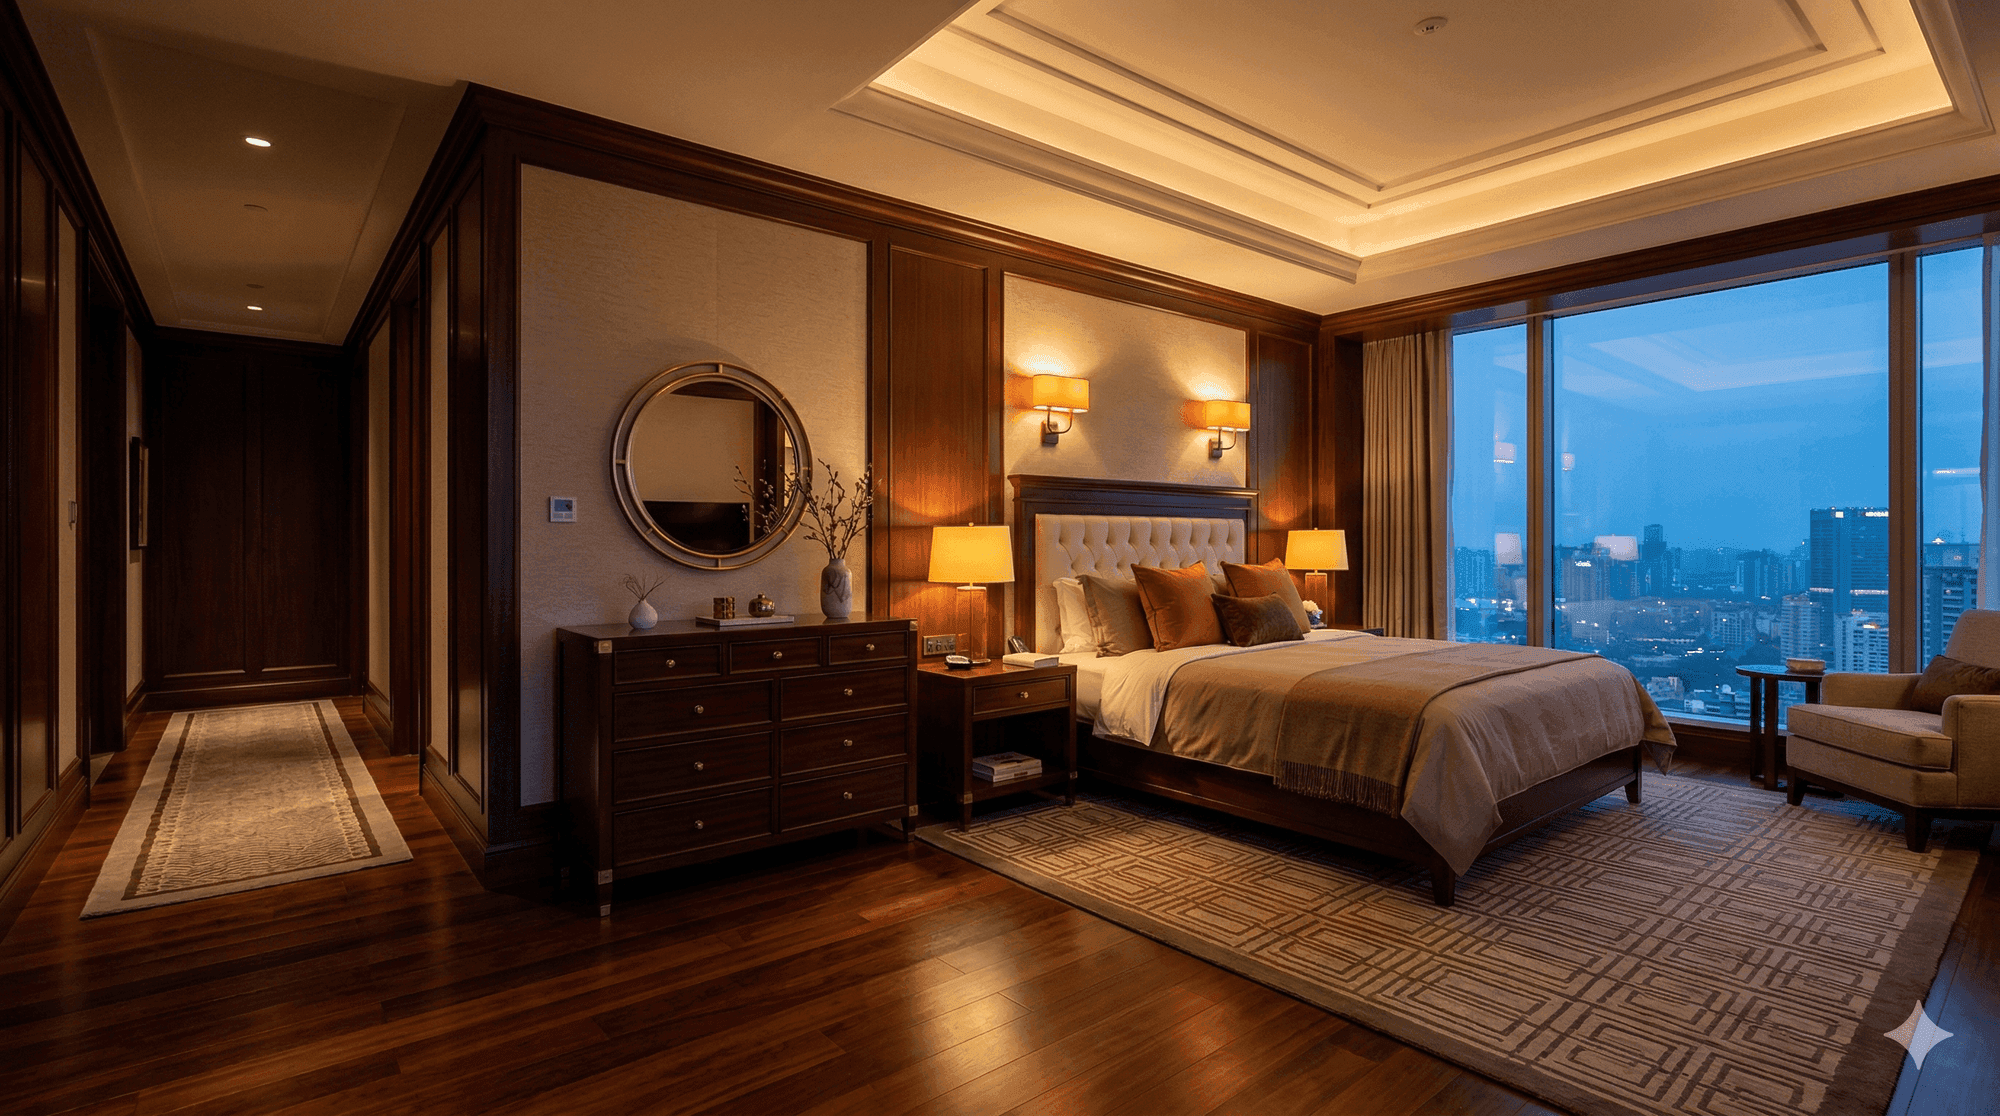
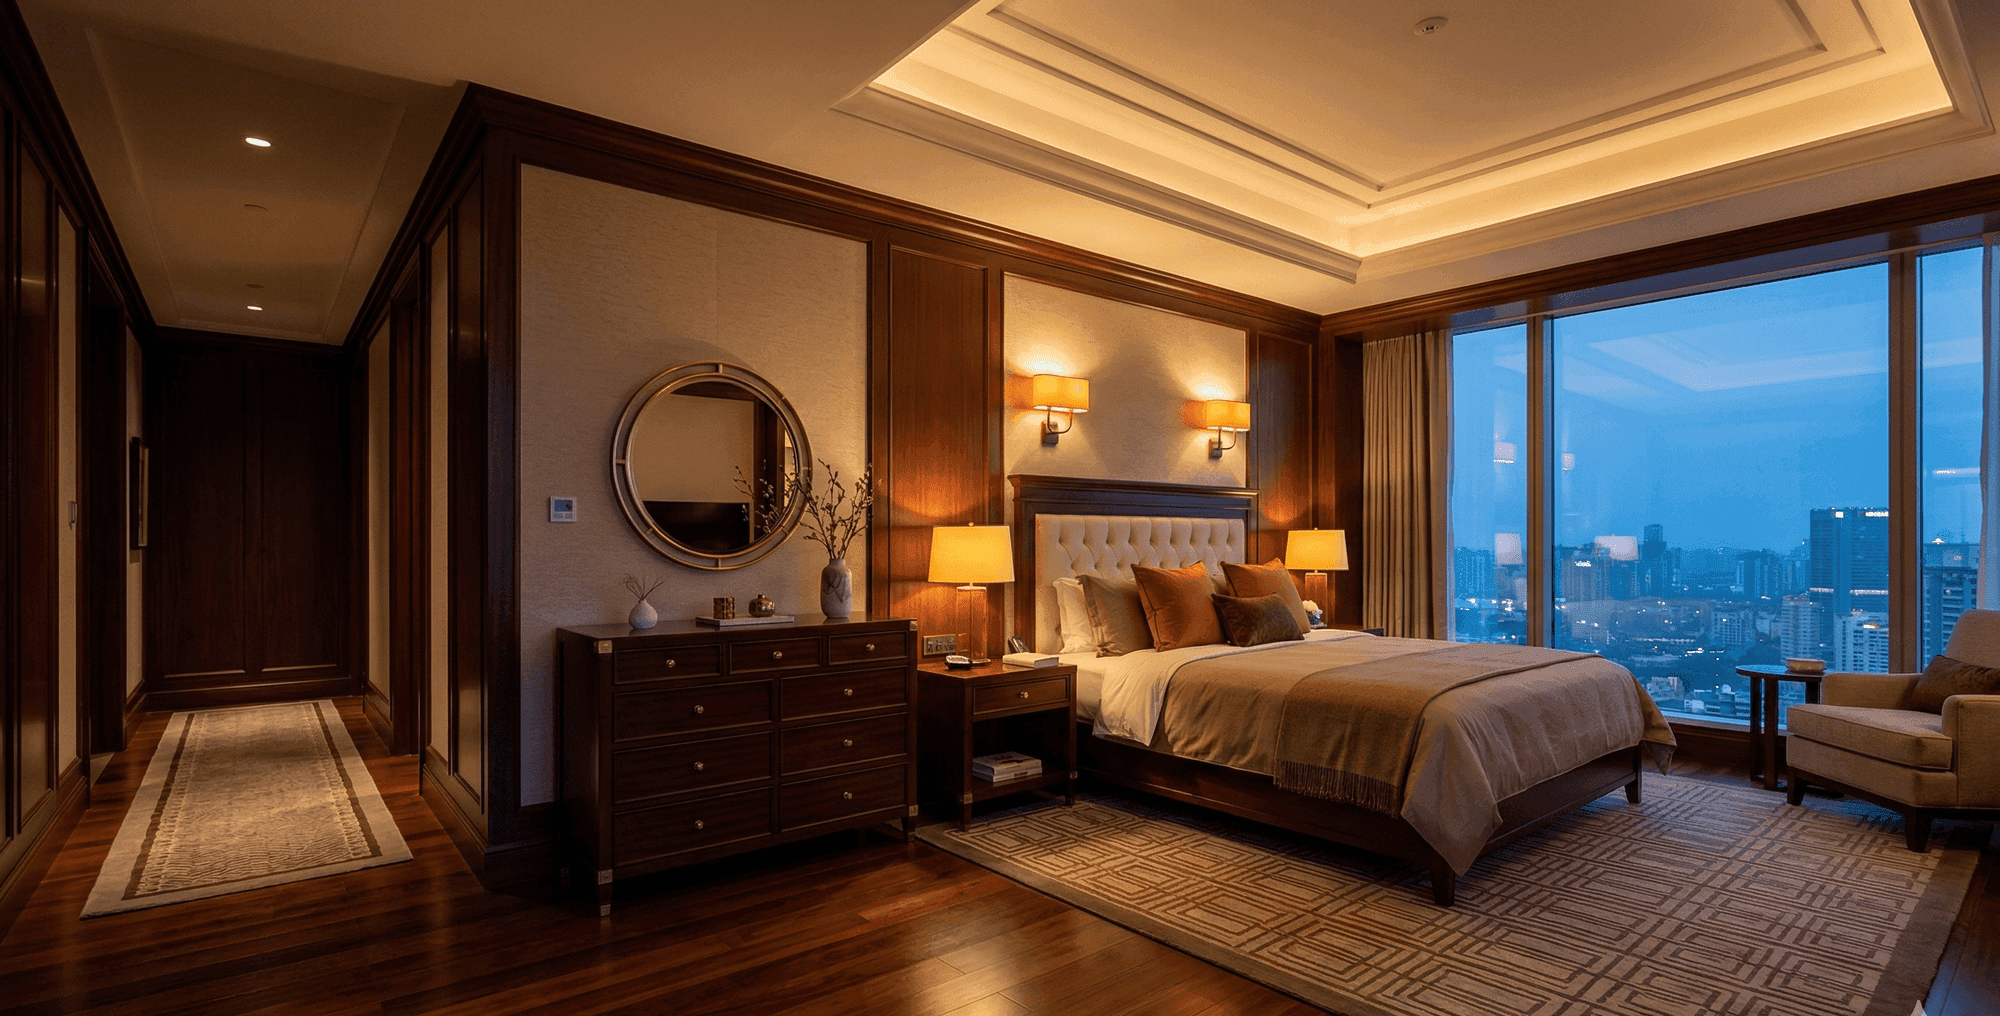
fix(content): tighten homepage hero + stat cards, crop Gemini watermark
- Hero H1 shortened to the gold D.M.D. logo trio "Designed. Manufactured.
  Delivered." (dropped redundant "Custom Hospitality Furniture" prefix;
  eyebrow + tagline already carry it). CEO-approved.
- Stat cards: "Multi-State" -> "4 States / Full-Property Installs in FL ME
  MD MA" (concrete, no longer contradicts the Nationwide card); "7 Verticals
  We Serve" -> "7 Sectors / Hotels to Healthcare" (kills jargon). app/page.js.
- Cropped Gemini 4-point sparkle watermark off Hotel_Guest_Room_Hero.png
  (bottom 100px floor strip; 2000x1116 -> 2000x1016); updated blog Image height.

diff --git a/app/page.js b/app/page.js
@@ -191,7 +191,7 @@ export default function HomePage() {
         <div className={styles.heroOverlay} />
         <div className={styles.heroContent}>
           <p className={styles.eyebrow}>Custom Hospitality FF&amp;E · Built to Spec · Installed Nationwide</p>
-          <h1>Custom Hospitality Furniture. <span className={styles.goldLetter}>D</span>esigned. <span className={styles.goldLetter}>M</span>anufactured. <span className={styles.goldLetter}>D</span>elivered.</h1>
+          <h1><span className={styles.goldLetter}>D</span>esigned. <span className={styles.goldLetter}>M</span>anufactured. <span className={styles.goldLetter}>D</span>elivered.</h1>
           <p className={styles.heroTagline}>Custom FF&amp;E for Hotels, Restaurants &amp; Commercial Spaces</p>
           <p className={styles.lede} data-speakable="lede">
             Every piece built to your finish samples, hardware selections, and dimension drawings.<br />
@@ -217,12 +217,12 @@ export default function HomePage() {
             </div>
           )}
           <div className={styles.trustStat}>
-            <span className={styles.trustStatNumber}>Multi-State</span>
-            <span className={styles.trustStatLabel}>Full-Property Installs &mdash; FL &middot; ME &middot; MD &middot; MA</span>
+            <span className={styles.trustStatNumber}>4 States</span>
+            <span className={styles.trustStatLabel}>Full-Property Installs in FL &middot; ME &middot; MD &middot; MA</span>
           </div>
           <div className={styles.trustStat}>
-            <CountUp end={places.length} className={styles.trustStatNumber} />
-            <span className={styles.trustStatLabel}>Verticals We Serve</span>
+            <CountUp end={places.length} suffix=" Sectors" className={styles.trustStatNumber} />
+            <span className={styles.trustStatLabel}>Hotels to Healthcare</span>
           </div>
           <div className={styles.trustStat}>
             <span className={styles.trustStatNumber}>Nationwide</span>

diff --git a/app/blog/what-is-ffe-hospitality/page.js b/app/blog/what-is-ffe-hospitality/page.js
@@ -202,7 +202,7 @@ export default function WhatIsFFEPage() {
                 src="/Images/Hotel_Guest_Room_Hero.png"
                 alt="Hotel guestroom furnished with custom FF&E: upholstered headboard, casegoods, lounge seating, and decorative lighting"
                 width={2000}
-                height={1116}
+                height={1016}
                 sizes="(max-width: 760px) 100vw, 720px"
               />
               <figcaption>